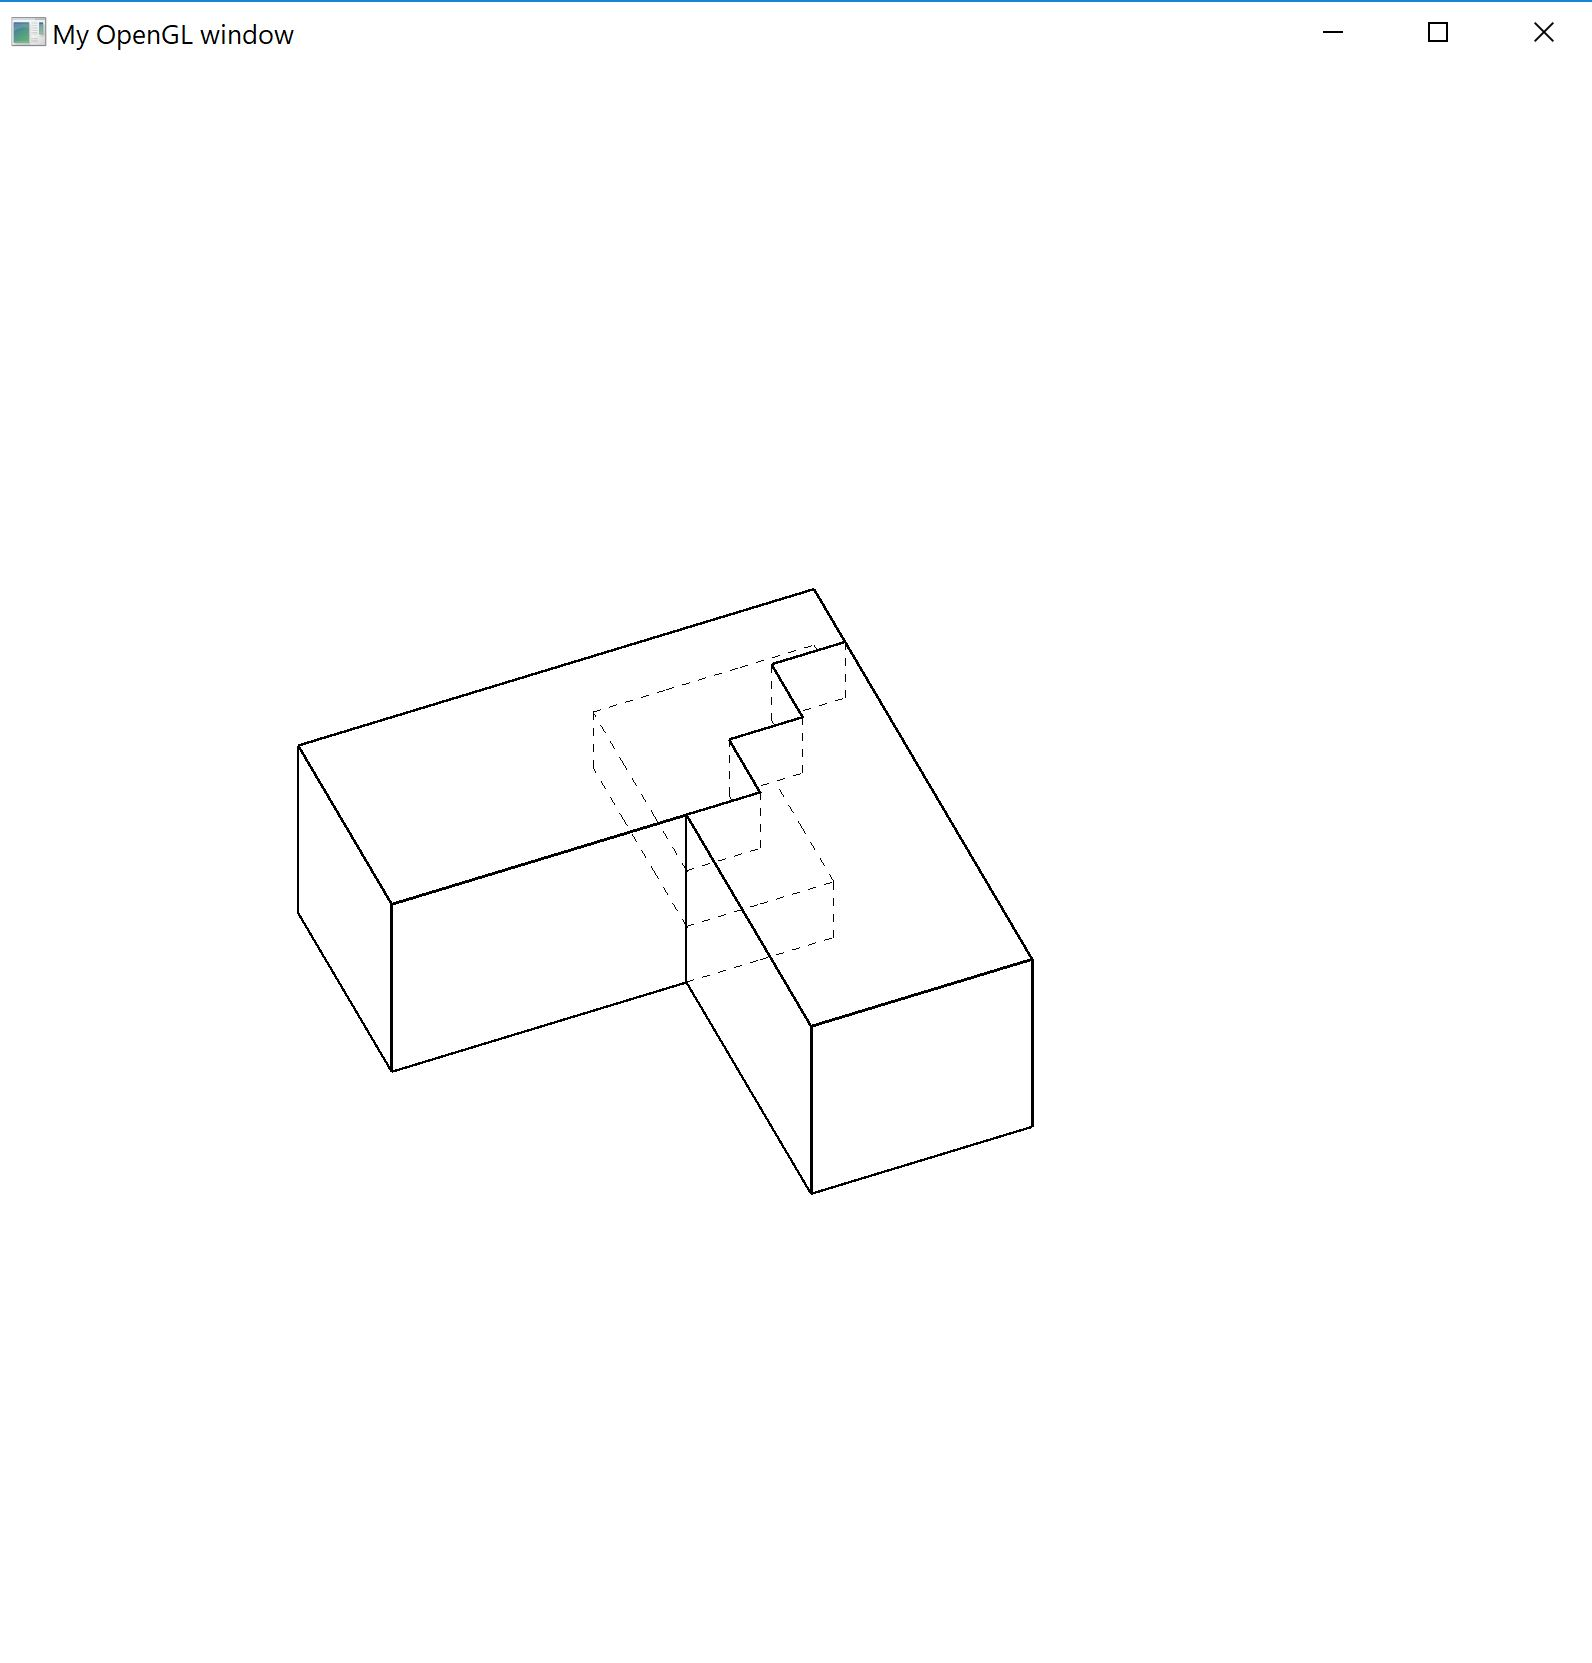
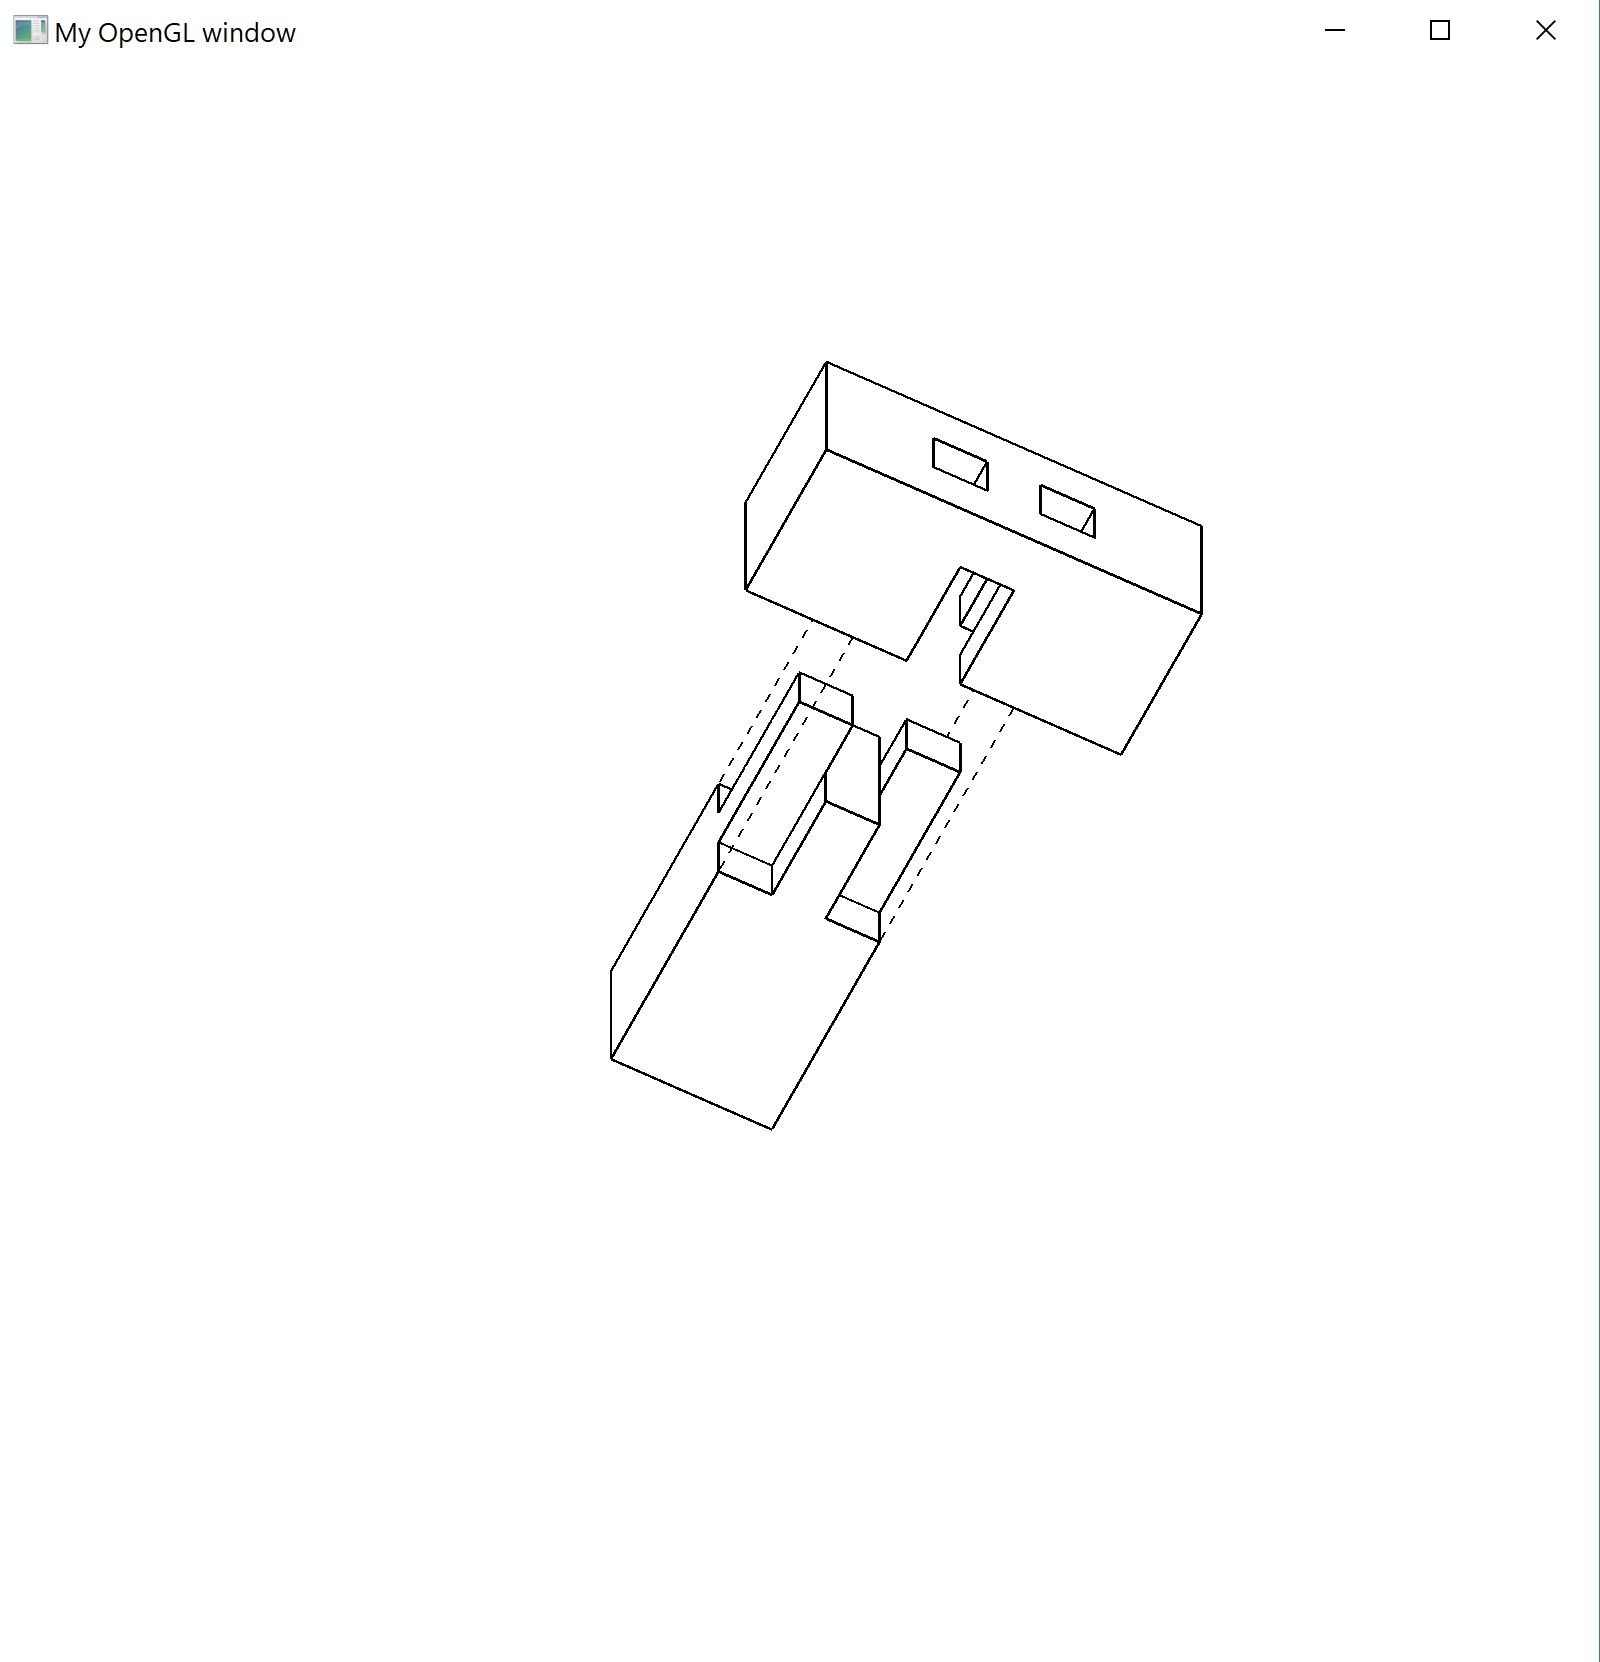
Open / Close joint with key C implemented

diff --git a/setup/main.py b/setup/main.py
@@ -37,6 +37,7 @@ def create_shaders():
 
 def keyCallback(window,key,scancode,action,mods):
     global TYPE, HIDDEN_A, HIDDEN_B, VOX_MAT, UPDATE_JOINT_INDICIES, SHOW_HIDDEN
+    global OPEN
     UPDATE_JOINT_INDICIES = True
     if action==glfw.PRESS:
         # Joint geometry
@@ -86,6 +87,9 @@ def keyCallback(window,key,scancode,action,mods):
             HIDDEN_B = not HIDDEN_B
         elif key==glfw.KEY_E:
             SHOW_HIDDEN = not SHOW_HIDDEN
+        elif key==glfw.KEY_C:
+            OPEN = not OPEN
+            vn_fA, vn_lA, vn_fB, vn_lB = create_buffer_vertices()
 
 def mouseCallback(window,button,action,mods):
     if button==glfw.MOUSE_BUTTON_LEFT:
@@ -118,7 +122,8 @@ def updateRotation(window, DRAGGED, DOUBLE_CLICKED):
         XROT = XROT0 + 0.1 * (glfw.get_time()-NEXT_CLICK_TIME)
         YROT = YROT0 + 0.4 * (glfw.get_time()-NEXT_CLICK_TIME)
 
-def joint_vertices(r,g,b):
+def joint_vertices(comp,r,g,b):
+    global OPEN, VOXEL_SIZE
     vertices = []
     # Add all vertices of the DIM*DIM*DIM voxel cube
     for i in range(DIM+1):
@@ -159,6 +164,12 @@ def joint_vertices(r,g,b):
     # Format
     vertices = np.array(vertices, dtype = np.float32) #converts to correct format
     #print('Number of vertices',int(len(vertices)/6))
+    # Mover vertices for opening component
+    if OPEN==True and comp=="B":
+        for i in range(0,len(vertices),6):
+            vertices[i]   = vertices[i]   + 5*SLIDE[0]*VOXEL_SIZE
+            vertices[i+1] = vertices[i+1] + 5*SLIDE[1]*VOXEL_SIZE
+            vertices[i+2] = vertices[i+2] + 5*SLIDE[2]*VOXEL_SIZE
     return vertices
 
 def component_vertices(corners,vec,dist):
@@ -384,6 +395,21 @@ def joint_line_indicies(comp,offset,fixed_sides):
     #print('Number of line indices', len(indices))
     return indices
 
+def open_line_indicies(offset1,offset2):
+    global DIM, HF
+    indices = []
+    for i in range(2):
+        for j in range(2):
+            h = HF[j*(DIM-1)][i*(DIM-1)]
+            i0 = i*DIM
+            j0 = j*DIM
+            ind = [i0,j0,h]
+            indices.extend([get_index(ind,0,0,0)+offset2,get_index(ind,0,0,0)+offset1])
+    # Format
+    indices = np.array(indices, dtype=np.uint32)
+    #print('Number of open line indices', len(indices))
+    return indices
+
 def get_random_height_field():
     a = random.randint(0,DIM)
     b = random.randint(0,DIM)
@@ -414,7 +440,7 @@ def initialize():
     if not glfw.init():
         return
     # Create window
-    window = glfw.create_window(1600, 1600, "My OpenGL window", None, None)
+    window = glfw.create_window(1600, 1600, "DISCO JOINT", None, None)
     if not window:
         glfw.terminate()
         return
@@ -438,14 +464,15 @@ def initialize():
 
     return window
 
-def create_buffer_vertices(DIM, VOXEL_SIZE, COMP_LENGTH):
+def create_buffer_vertices():
+    global DIM, VOXEL_SIZE, COMP_LENGTH
     # Vertices of component A
-    v_faces_A = joint_vertices(0.8,0.8,0.8)
-    v_lines_A = joint_vertices(0.0,0.0,0.0)
+    v_faces_A = joint_vertices("A",0.8,0.8,0.8)
+    v_lines_A = joint_vertices("A",0.0,0.0,0.0)
 
     # Vertices of component B
-    v_faces_B = joint_vertices(0.8,0.8,0.8)
-    v_lines_B = joint_vertices(0.0,0.0,0.0)
+    v_faces_B = joint_vertices("B",0.8,0.8,0.8)
+    v_lines_B = joint_vertices("B",0.0,0.0,0.0)
 
     # Join all vertices into one list
     vertices_all = np.concatenate([v_faces_A,v_lines_A,v_faces_B,v_lines_B])
@@ -468,17 +495,20 @@ def create_buffer_indicies(vn_fA, vn_lA, vn_fB, vn_lB):
     i_faces_B = joint_face_indicies("B",int((vn_fA+vn_lA)/6))
     i_lines_B = joint_line_indicies("B",int((vn_fA+vn_lA+vn_fB)/6),fixed_sides_AB[1])
 
+    # Indicies of sliding lines
+    i_open = open_line_indicies(int(vn_fA/6),int((vn_fA+vn_lA+vn_fB)/6))
+
     # Join all indices into one list
-    i_all = np.concatenate([i_faces_A,i_lines_A,i_faces_B,i_lines_B])
+    i_all = np.concatenate([i_faces_A,i_lines_A,i_faces_B,i_lines_B,i_open])
 
     # Elements Buffer
     EBO = glGenBuffers(1) # element buffer object
     glBindBuffer(GL_ELEMENT_ARRAY_BUFFER, EBO)
     glBufferData(GL_ELEMENT_ARRAY_BUFFER, 4*len(i_all), i_all, GL_DYNAMIC_DRAW)
 
-    return len(i_faces_A), len(i_lines_A), len(i_faces_B), len(i_lines_B)
+    return len(i_faces_A), len(i_lines_A), len(i_faces_B), len(i_lines_B), len(i_open)
 
-def display(window, shader, in_fA, in_lA, in_fB, in_lB):
+def display(window, shader, in_fA, in_lA, in_fB, in_lB, in_open):
 
     position = glGetAttribLocation(shader, "position")
     glVertexAttribPointer(position, 3, GL_FLOAT, GL_FALSE, 24, ctypes.c_void_p(0))
@@ -509,7 +539,7 @@ def display(window, shader, in_fA, in_lA, in_fB, in_lB):
     ### DRAW ALL LINES INCLUDING HIDDEN ###
     glPushAttrib(GL_ENABLE_BIT)
     glLineWidth(1)
-    glLineStipple(1, 0x00FF)
+    glLineStipple(3, 0xAAAA)
     glEnable(GL_LINE_STIPPLE)
     # Component A
     if HIDDEN_A==False and SHOW_HIDDEN==True:
@@ -554,6 +584,7 @@ def display(window, shader, in_fA, in_lA, in_fB, in_lB):
     glStencilOp(GL_REPLACE,GL_REPLACE,GL_REPLACE)
     glDrawElements(GL_LINES, in_lA, GL_UNSIGNED_INT,  ctypes.c_void_p(4*in_fA))
     glDrawElements(GL_LINES, in_lB, GL_UNSIGNED_INT,  ctypes.c_void_p(4*(in_fA+in_lA+in_fB)))
+    glDrawElements(GL_LINES, in_open, GL_UNSIGNED_INT,  ctypes.c_void_p(4*(in_fA+in_lA+in_fB+in_lB)))
     glEnable(GL_DEPTH_TEST)
     glStencilFunc(GL_EQUAL,1,1)
     glStencilOp(GL_KEEP,GL_KEEP,GL_KEEP)
@@ -564,6 +595,13 @@ def display(window, shader, in_fA, in_lA, in_fB, in_lB):
     if HIDDEN_A==False: glDrawElements(GL_LINES, in_lA, GL_UNSIGNED_INT,  ctypes.c_void_p(4*in_fA))
     if HIDDEN_B==False: glDrawElements(GL_LINES, in_lB, GL_UNSIGNED_INT,  ctypes.c_void_p(4*(in_fA+in_lA+in_fB)))
 
+    if OPEN==True:
+        glPushAttrib(GL_ENABLE_BIT)
+        glLineWidth(2)
+        glLineStipple(1, 0x00FF)
+        glEnable(GL_LINE_STIPPLE)
+        glDrawElements(GL_LINES, in_open, GL_UNSIGNED_INT,  ctypes.c_void_p(4*(in_fA+in_lA+in_fB+in_lB)))
+        glPopAttrib()
     glfw.swap_buffers(window)
 
 def main():
@@ -573,18 +611,17 @@ def main():
     # Create shaders
     shader = create_shaders()
     # Create and buffer joint vertices
-    vn_fA, vn_lA, vn_fB, vn_lB = create_buffer_vertices(DIM, VOXEL_SIZE, COMP_LENGTH)
+    vn_fA, vn_lA, vn_fB, vn_lB = create_buffer_vertices()
 
     while glfw.get_key(window,glfw.KEY_ESCAPE) != glfw.PRESS and not glfw.window_should_close(window):
         # Update Rotation
         updateRotation(window, DRAGGED, DOUBLE_CLICKED)
         # Create and buffer joint indicies
         if UPDATE_JOINT_INDICIES:
-            in_fA, in_lA, in_fB, in_lB = create_buffer_indicies(vn_fA, vn_lA, vn_fB, vn_lB)
+            in_fA, in_lA, in_fB, in_lB, in_open = create_buffer_indicies(vn_fA, vn_lA, vn_fB, vn_lB)
             UPDATE_JOINT_INDICIES=False
         # Display joint geometries
-        display(window, shader, in_fA, in_lA, in_fB, in_lB)
-
+        display(window, shader, in_fA, in_lA, in_fB, in_lB, in_open)
     glfw.terminate()
 
 if __name__ == "__main__":
@@ -597,7 +634,7 @@ if __name__ == "__main__":
     # Declare global variables
     global HF, TYPE, XROT, YROT, XROT0, YROT0, XSTART, YSTART, CLICK_TIME
     global DRAGGED, DOUBLE_CLICKED, DIM, VOXEL_SIZE, COMP_LENGTH, VOX_MAT
-    global HIDDEN_B, UPDATE_JOINT_INDICIES, SHOW_HIDDEN
+    global HIDDEN_B, UPDATE_JOINT_INDICIES, SHOW_HIDDEN, SLIDE, OPEN
     TYPE = "I"
     # Variables for mouse callback and rotation
     XROT, YROT = 0.8, 0.4
@@ -610,9 +647,11 @@ if __name__ == "__main__":
     HIDDEN_B = False
     UPDATE_JOINT_INDICIES = True
     SHOW_HIDDEN = True
+    SLIDE = [0,0,1]
+    OPEN = False
     # Set geometric variables for joint geometry
     DIM = 3
-    VOXEL_SIZE = 0.1
+    VOXEL_SIZE = 0.075
     COMP_LENGTH = VOXEL_SIZE*2
     #
     HF = get_random_height_field()

diff --git a/README.md b/README.md
@@ -14,6 +14,8 @@ Edit joint geometry with: Y U I / H J K / B N M
 
 Edit joint type with: 1 L T X
 
+Open/close joint with: C
+
 Turn on/off component view with: A / D
 
 Turn on/off hidden lines with: E
